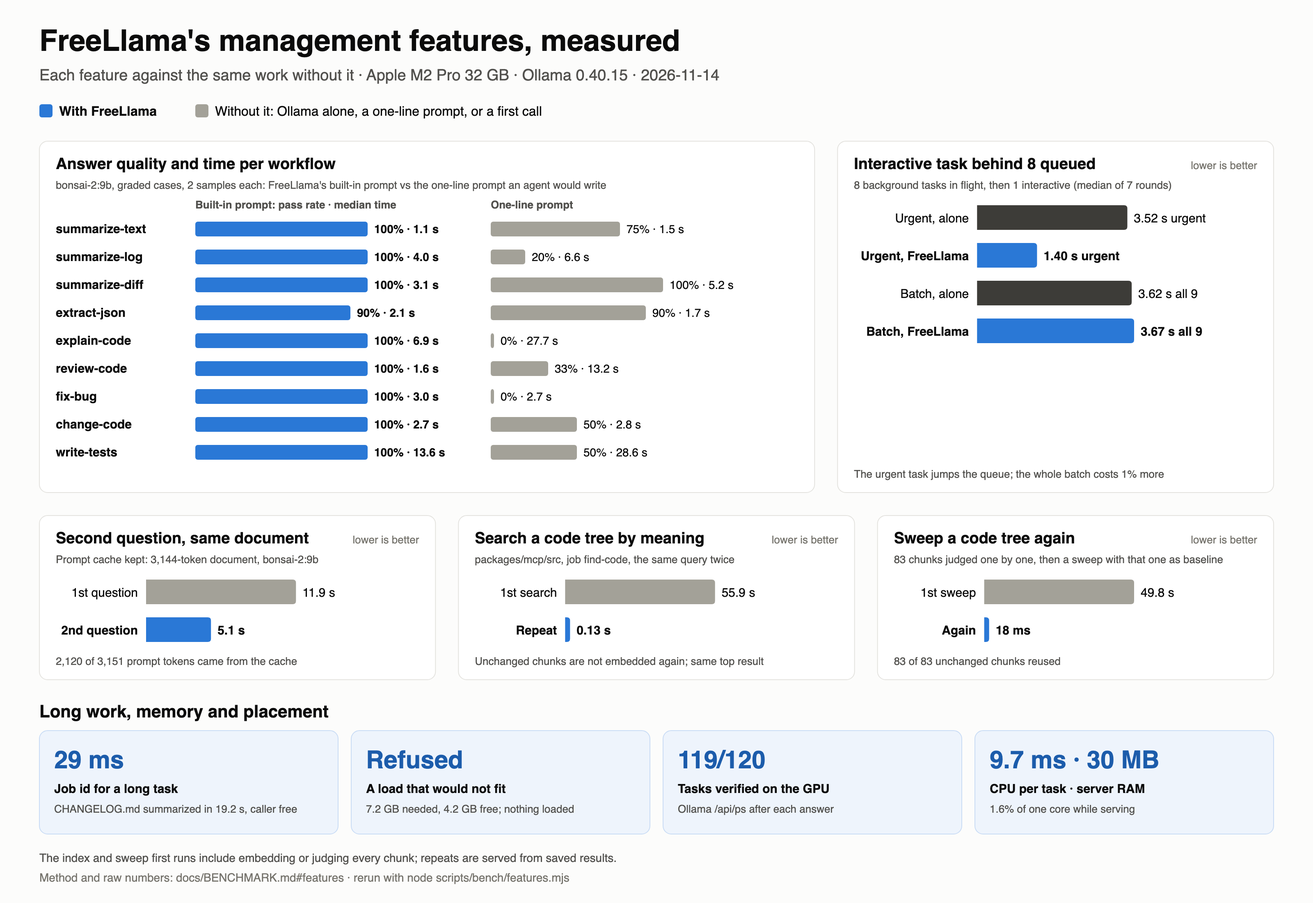
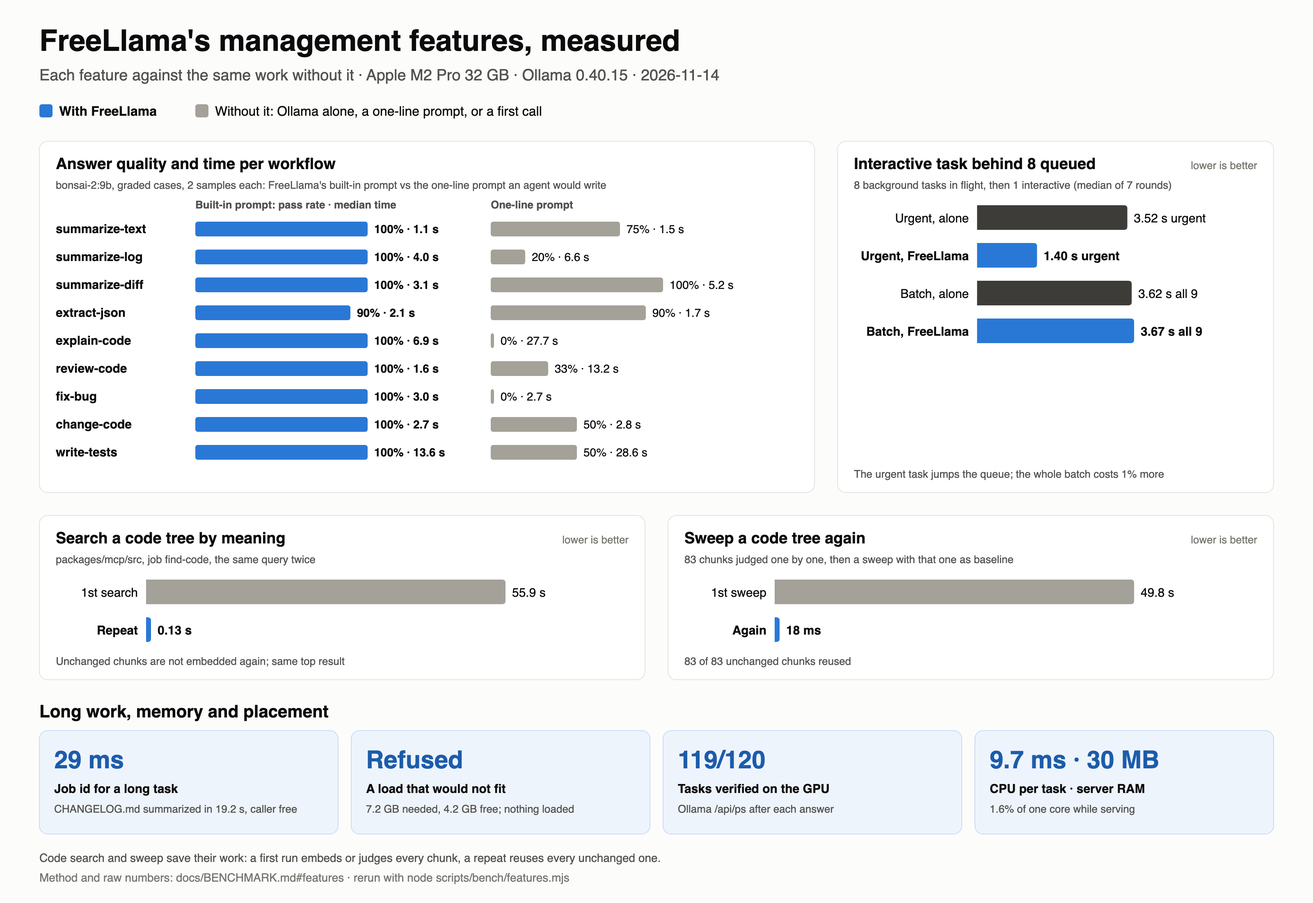
update models

Changed region(s): [[0.0312, 0.5873, 0.8125, 0.7418], [0.0312, 0.9273, 0.5, 0.9582]]

diff --git a/packages/mcp/src/result-text.ts b/packages/mcp/src/result-text.ts
@@ -121,6 +121,15 @@ export function installedModelsText(data: Fields): string {
   return lines.join("\n");
 }
 
+/** Where a runner sits. `processor` is Ollama's own label ("100% GPU", "48%/52% CPU/GPU"), which
+ * already carries the split; the percentage is added only when the label lacks one. */
+function placementLabel(placement: Fields): string {
+  const processor = str(placement.processor) ? String(placement.processor) : undefined;
+  if (processor && /%/.test(processor)) return processor;
+  const percent = num(placement.gpu_percent);
+  return [processor, percent !== undefined ? `${percent}% GPU` : undefined].filter(Boolean).join(" ") || "?";
+}
+
 /** `models view:resident`: what is loaded, where, and how much. */
 export function residentModelsText(data: Fields): string {
   const models = list(data.models).map((m) => obj(m) ?? {});
@@ -131,7 +140,7 @@ export function residentModelsText(data: Fields): string {
     lines.push(
       [
         String(m.name ?? "?"), `size ${gib(m.resident_size ?? m.size)}`,
-        placement ? `${String(placement.processor ?? "?")} ${String(placement.gpu_percent ?? "?")}% GPU` : "",
+        placement ? placementLabel(placement) : "",
         num(m.resident_context) !== undefined ? `ctx ${String(m.resident_context)}` : "",
         str(placement?.warning) ? `warning: ${String(placement?.warning)}` : "",
       ].filter(Boolean).join("  "),

diff --git a/packages/mcp/test/unit/result-text.test.ts b/packages/mcp/test/unit/result-text.test.ts
@@ -1,0 +1,16 @@
+import { describe, expect, it } from "vitest";
+import { residentModelsText } from "../../src/result-text.js";
+
+describe("residentModelsText", () => {
+  it("shows Ollama's placement label once", () => {
+    const text = residentModelsText({ models: [
+      { name: "a:2b", size: 2 ** 30, resident_context: 4096, placement: { processor: "100% GPU", gpu_percent: 100 } },
+      { name: "b:9b", size: 2 ** 30, placement: { processor: "48%/52% CPU/GPU", gpu_percent: 52 } },
+      { name: "c:1b", size: 2 ** 30, placement: { gpu_percent: 0 } },
+    ] });
+    expect(text).toContain("a:2b  size 1.0 GiB  100% GPU  ctx 4096");
+    expect(text).not.toContain("100% GPU 100% GPU");
+    expect(text).toContain("48%/52% CPU/GPU");
+    expect(text).toContain("c:1b  size 1.0 GiB  0% GPU");
+  });
+});

diff --git a/packages/cli/README.md b/packages/cli/README.md
@@ -63,21 +63,21 @@ caller cannot see. FreeLlama addresses each one; the answer is still yours to ch
 | What goes wrong with a direct call | What FreeLlama does | What we measured |
 |---|---|---|
 | **The wrong model for this machine.** A tag name says nothing about capability, context or memory. One load too many and the machine starts swapping. | Picks the tested model for the job that is installed *and fits now*. A load that does not fit waits, then is refused with the reason and the programs holding the memory. | With 6.5 GB free, a code review moved from a 10 GB model to one that fit. A yes/no question ran on a 1.2 GB decision model instead of a 14.5 GB one that would have been refused. |
-| **Default settings waste tokens.** Thinking models reason before every answer. Small models pad their output. | Applies each model card's documented sampling and think setting, plus step-by-step workflow prompts that were tested on the models. | A direct call spent 61 tokens (0.92 s) thinking before answering "OK"; FreeLlama answered in 2 tokens (0.47 s). On the workflow eval, the 1.7B model went from 7 of 12 to 11 of 12. |
+| **Default settings waste tokens.** Thinking models reason before every answer. Small models pad their output. | Applies each model card's documented sampling and think setting, plus step-by-step workflow prompts that were tested on the models. | A direct call spent 61 tokens (0.92 s) thinking before answering "OK"; FreeLlama answered in 2 tokens (0.47 s). Built-in workflow prompts passed 98% of graded cases where one-line prompts passed 52%. |
 | **No way to tell a good answer from a bad one.** Answers loop, pad, invent facts, or come back empty. | Returns `check:` lines (filler, invented facts, edits that do not match the file) and a receipt with the model, timing, cache hits and GPU/CPU placement. | An empty "thinking-only" answer exits 1 with the fix (`--think=false`) instead of looking like success. |
 
 Over a session it also keeps the machine efficient:
 
 | Mechanism | Effect | Measured |
 |---|---|---|
-| **Prompt cache kept** | Reuses a loaded model's context window and settings, so Ollama's prompt cache survives between turns | 95% of a multi-turn prompt served from cache (attention models; Ollama does not cache hybrid models such as `lfm3` across turns) |
+| **Prompt cache kept** | Reuses a loaded model's context window and settings, so Ollama's prompt cache survives between turns | A second question about a 3,144-token document took 5.1 s instead of 11.9 s (attention models; Ollama does not cache hybrid models such as `lfm3` across turns) |
 | **Admitted loads only** | Every model load through FreeLlama, streamed requests included, goes through the memory gate (direct calls to Ollama bypass it) | — |
-| **Indexed code search** | A repeated search embeds only the chunks that changed | 89 chunks: 7.3 s first, 0.28 s next |
-| **Fast hand-off** | The service answers the moment a job is done | A short task on a loaded model in about 0.2 s |
+| **Indexed code search** | A repeated search embeds only the chunks that changed | `packages/mcp/src`: 55.9 s first, 0.13 s next |
+| **Long tasks as jobs** | A long task returns a job id at once; the agent polls and stays free | Job id in 29 ms; an interactive task behind 8 queued ones answered in 1.40 s instead of 3.52 s |
 
-*Measured on one Apple M2 Pro (32 GB) with Ollama 0.40.15, on 2026-11-10. These are single-machine
-results, not general speed claims. The current benchmark, with every KPI and how it was measured:
-[Benchmark](https://github.com/bgauryy/FreeLlama/blob/main/docs/BENCHMARK.md); workflow checks: [Testing](https://github.com/bgauryy/FreeLlama/blob/main/docs/TESTING.md).*
+*Measured on one Apple M2 Pro (32 GB) with Ollama 0.40.15 on 2026-11-14 (the thinking example on
+2026-11-10). These are single-machine results, not general speed claims; method and limits:
+[Benchmark](https://github.com/bgauryy/FreeLlama/blob/main/docs/BENCHMARK.md).*
 
 The name means less metered inference, not only Meta's Llama models.
 
@@ -279,30 +279,24 @@ and no scheduling across machines.
 
 ### Benchmarks
 
-Ollama alone, FreeLlama on Ollama, and the most popular alternatives by GitHub stars, on the same
-task and the same hash-verified model file (Apple M2 Pro, 32 GB, 2026-11-14). Every one of the 300
-answers was correct.
+Ollama alone, FreeLlama on Ollama, and the most popular alternatives by GitHub stars, on one task
+and one hash-verified model file (Apple M2 Pro, 32 GB, 2026-11-14). All 300 answers were correct.
 
 ![Ollama, FreeLlama, llama.cpp, LocalAI and llama-swap on six measured KPIs: median task time 272, 274, 336, 802 and 332 ms; first token 93, 95, 128, 541 and 130 ms; throughput at 4 clients 225, 221, 291, 145 and 305 per minute; cold request 1.13, 1.21, n/a, 3.39 and 1.58 s; plus what FreeLlama adds: 3.7 ms overhead, 98% vs 52% with built-in prompts, 9.7 ms CPU and 30 MB RAM, loads that would not fit refused](https://raw.githubusercontent.com/bgauryy/FreeLlama/main/docs/assets/benchmark-overview.png)
 
 | | Ollama | **FreeLlama** | llama.cpp | LocalAI | llama-swap |
 |---|---:|---:|---:|---:|---:|
-| GitHub stars | 187k | — (runs on Ollama) | 135k | 50k | 6k |
 | Median task time | 272 ms | **274 ms** | 336 ms | 802 ms | 332 ms |
-| p95 task time | 290 ms | **303 ms** | 375 ms | 911 ms | 372 ms |
-| First token | 93 ms | **95 ms** (streamed) | 128 ms | 541 ms | 130 ms |
-| Tasks/min, 1 client | 209 | **206** | 178 | 76 | 178 |
+| First token | 93 ms | **95 ms** | 128 ms | 541 ms | 130 ms |
 | Tasks/min, 4 clients | 225 | **221** | 291 | 145 | 305 |
-| Cold request | 1.13 s | **1.21 s** | loads at start | 3.39 s | 1.58 s |
-| Refuses a load that won't fit in free memory | No (refuses only above total RAM) | **Yes**: refused 7.2 GB with 4.2 GB free | No (frees room, then loads anyway) | VRAM budget cap | No (declared pools) |
-| Picks an installed model that fits now, per job | No | **Yes** | No | Hardware recommendations | No |
-| Built-in tested prompts per job | — | **98%** of graded cases vs 52% with one-line prompts | — | — | — |
-| MCP server for coding agents | — | **Yes** | — | — | — |
 
-FreeLlama keeps Ollama's speed (its own work is 3.7 ms and 9.7 ms of CPU per task, 30 MB of RAM)
-and adds model choice, tested prompts, a memory gate and receipts. llama.cpp and llama-swap serve
-concurrent clients faster; LocalAI trades speed for breadth. What to use for what you are building,
-and how every number was measured: [Benchmark](https://github.com/bgauryy/FreeLlama/blob/main/docs/BENCHMARK.md).
+FreeLlama keeps Ollama's speed and adds what an agent needs on a shared machine:
+
+![FreeLlama's features measured: built-in prompts pass 98% of graded cases against 52% for one-line prompts; an interactive task behind 8 queued answers in 1.40 s instead of 3.52 s; a repeated code search takes 0.13 s instead of 55.9 s; a repeated sweep 18 ms instead of 49.8 s; a long task returns a job id in 29 ms](https://raw.githubusercontent.com/bgauryy/FreeLlama/main/docs/assets/benchmark-features.png)
+
+llama.cpp and llama-swap serve concurrent clients faster with Ollama's default settings, and
+LocalAI trades speed for breadth. What to use for what you are building, and how every number was
+measured: [Benchmark](https://github.com/bgauryy/FreeLlama/blob/main/docs/BENCHMARK.md).
 
 ## Under the hood
 

diff --git a/packages/mcp/README.md b/packages/mcp/README.md
@@ -63,21 +63,21 @@ caller cannot see. FreeLlama addresses each one; the answer is still yours to ch
 | What goes wrong with a direct call | What FreeLlama does | What we measured |
 |---|---|---|
 | **The wrong model for this machine.** A tag name says nothing about capability, context or memory. One load too many and the machine starts swapping. | Picks the tested model for the job that is installed *and fits now*. A load that does not fit waits, then is refused with the reason and the programs holding the memory. | With 6.5 GB free, a code review moved from a 10 GB model to one that fit. A yes/no question ran on a 1.2 GB decision model instead of a 14.5 GB one that would have been refused. |
-| **Default settings waste tokens.** Thinking models reason before every answer. Small models pad their output. | Applies each model card's documented sampling and think setting, plus step-by-step workflow prompts that were tested on the models. | A direct call spent 61 tokens (0.92 s) thinking before answering "OK"; FreeLlama answered in 2 tokens (0.47 s). On the workflow eval, the 1.7B model went from 7 of 12 to 11 of 12. |
+| **Default settings waste tokens.** Thinking models reason before every answer. Small models pad their output. | Applies each model card's documented sampling and think setting, plus step-by-step workflow prompts that were tested on the models. | A direct call spent 61 tokens (0.92 s) thinking before answering "OK"; FreeLlama answered in 2 tokens (0.47 s). Built-in workflow prompts passed 98% of graded cases where one-line prompts passed 52%. |
 | **No way to tell a good answer from a bad one.** Answers loop, pad, invent facts, or come back empty. | Returns `check:` lines (filler, invented facts, edits that do not match the file) and a receipt with the model, timing, cache hits and GPU/CPU placement. | An empty "thinking-only" answer exits 1 with the fix (`--think=false`) instead of looking like success. |
 
 Over a session it also keeps the machine efficient:
 
 | Mechanism | Effect | Measured |
 |---|---|---|
-| **Prompt cache kept** | Reuses a loaded model's context window and settings, so Ollama's prompt cache survives between turns | 95% of a multi-turn prompt served from cache (attention models; Ollama does not cache hybrid models such as `lfm3` across turns) |
+| **Prompt cache kept** | Reuses a loaded model's context window and settings, so Ollama's prompt cache survives between turns | A second question about a 3,144-token document took 5.1 s instead of 11.9 s (attention models; Ollama does not cache hybrid models such as `lfm3` across turns) |
 | **Admitted loads only** | Every model load through FreeLlama, streamed requests included, goes through the memory gate (direct calls to Ollama bypass it) | — |
-| **Indexed code search** | A repeated search embeds only the chunks that changed | 89 chunks: 7.3 s first, 0.28 s next |
-| **Fast hand-off** | The service answers the moment a job is done | A short task on a loaded model in about 0.2 s |
+| **Indexed code search** | A repeated search embeds only the chunks that changed | `packages/mcp/src`: 55.9 s first, 0.13 s next |
+| **Long tasks as jobs** | A long task returns a job id at once; the agent polls and stays free | Job id in 29 ms; an interactive task behind 8 queued ones answered in 1.40 s instead of 3.52 s |
 
-*Measured on one Apple M2 Pro (32 GB) with Ollama 0.40.15, on 2026-11-10. These are single-machine
-results, not general speed claims. The current benchmark, with every KPI and how it was measured:
-[Benchmark](https://github.com/bgauryy/FreeLlama/blob/main/docs/BENCHMARK.md); workflow checks: [Testing](https://github.com/bgauryy/FreeLlama/blob/main/docs/TESTING.md).*
+*Measured on one Apple M2 Pro (32 GB) with Ollama 0.40.15 on 2026-11-14 (the thinking example on
+2026-11-10). These are single-machine results, not general speed claims; method and limits:
+[Benchmark](https://github.com/bgauryy/FreeLlama/blob/main/docs/BENCHMARK.md).*
 
 The name means less metered inference, not only Meta's Llama models.
 
@@ -279,30 +279,24 @@ and no scheduling across machines.
 
 ### Benchmarks
 
-Ollama alone, FreeLlama on Ollama, and the most popular alternatives by GitHub stars, on the same
-task and the same hash-verified model file (Apple M2 Pro, 32 GB, 2026-11-14). Every one of the 300
-answers was correct.
+Ollama alone, FreeLlama on Ollama, and the most popular alternatives by GitHub stars, on one task
+and one hash-verified model file (Apple M2 Pro, 32 GB, 2026-11-14). All 300 answers were correct.
 
 ![Ollama, FreeLlama, llama.cpp, LocalAI and llama-swap on six measured KPIs: median task time 272, 274, 336, 802 and 332 ms; first token 93, 95, 128, 541 and 130 ms; throughput at 4 clients 225, 221, 291, 145 and 305 per minute; cold request 1.13, 1.21, n/a, 3.39 and 1.58 s; plus what FreeLlama adds: 3.7 ms overhead, 98% vs 52% with built-in prompts, 9.7 ms CPU and 30 MB RAM, loads that would not fit refused](https://raw.githubusercontent.com/bgauryy/FreeLlama/main/docs/assets/benchmark-overview.png)
 
 | | Ollama | **FreeLlama** | llama.cpp | LocalAI | llama-swap |
 |---|---:|---:|---:|---:|---:|
-| GitHub stars | 187k | — (runs on Ollama) | 135k | 50k | 6k |
 | Median task time | 272 ms | **274 ms** | 336 ms | 802 ms | 332 ms |
-| p95 task time | 290 ms | **303 ms** | 375 ms | 911 ms | 372 ms |
-| First token | 93 ms | **95 ms** (streamed) | 128 ms | 541 ms | 130 ms |
-| Tasks/min, 1 client | 209 | **206** | 178 | 76 | 178 |
+| First token | 93 ms | **95 ms** | 128 ms | 541 ms | 130 ms |
 | Tasks/min, 4 clients | 225 | **221** | 291 | 145 | 305 |
-| Cold request | 1.13 s | **1.21 s** | loads at start | 3.39 s | 1.58 s |
-| Refuses a load that won't fit in free memory | No (refuses only above total RAM) | **Yes**: refused 7.2 GB with 4.2 GB free | No (frees room, then loads anyway) | VRAM budget cap | No (declared pools) |
-| Picks an installed model that fits now, per job | No | **Yes** | No | Hardware recommendations | No |
-| Built-in tested prompts per job | — | **98%** of graded cases vs 52% with one-line prompts | — | — | — |
-| MCP server for coding agents | — | **Yes** | — | — | — |
 
-FreeLlama keeps Ollama's speed (its own work is 3.7 ms and 9.7 ms of CPU per task, 30 MB of RAM)
-and adds model choice, tested prompts, a memory gate and receipts. llama.cpp and llama-swap serve
-concurrent clients faster; LocalAI trades speed for breadth. What to use for what you are building,
-and how every number was measured: [Benchmark](https://github.com/bgauryy/FreeLlama/blob/main/docs/BENCHMARK.md).
+FreeLlama keeps Ollama's speed and adds what an agent needs on a shared machine:
+
+![FreeLlama's features measured: built-in prompts pass 98% of graded cases against 52% for one-line prompts; an interactive task behind 8 queued answers in 1.40 s instead of 3.52 s; a repeated code search takes 0.13 s instead of 55.9 s; a repeated sweep 18 ms instead of 49.8 s; a long task returns a job id in 29 ms](https://raw.githubusercontent.com/bgauryy/FreeLlama/main/docs/assets/benchmark-features.png)
+
+llama.cpp and llama-swap serve concurrent clients faster with Ollama's default settings, and
+LocalAI trades speed for breadth. What to use for what you are building, and how every number was
+measured: [Benchmark](https://github.com/bgauryy/FreeLlama/blob/main/docs/BENCHMARK.md).
 
 ## Under the hood
 

diff --git a/README.md b/README.md
@@ -63,21 +63,21 @@ caller cannot see. FreeLlama addresses each one; the answer is still yours to ch
 | What goes wrong with a direct call | What FreeLlama does | What we measured |
 |---|---|---|
 | **The wrong model for this machine.** A tag name says nothing about capability, context or memory. One load too many and the machine starts swapping. | Picks the tested model for the job that is installed *and fits now*. A load that does not fit waits, then is refused with the reason and the programs holding the memory. | With 6.5 GB free, a code review moved from a 10 GB model to one that fit. A yes/no question ran on a 1.2 GB decision model instead of a 14.5 GB one that would have been refused. |
-| **Default settings waste tokens.** Thinking models reason before every answer. Small models pad their output. | Applies each model card's documented sampling and think setting, plus step-by-step workflow prompts that were tested on the models. | A direct call spent 61 tokens (0.92 s) thinking before answering "OK"; FreeLlama answered in 2 tokens (0.47 s). On the workflow eval, the 1.7B model went from 7 of 12 to 11 of 12. |
+| **Default settings waste tokens.** Thinking models reason before every answer. Small models pad their output. | Applies each model card's documented sampling and think setting, plus step-by-step workflow prompts that were tested on the models. | A direct call spent 61 tokens (0.92 s) thinking before answering "OK"; FreeLlama answered in 2 tokens (0.47 s). Built-in workflow prompts passed 98% of graded cases where one-line prompts passed 52%. |
 | **No way to tell a good answer from a bad one.** Answers loop, pad, invent facts, or come back empty. | Returns `check:` lines (filler, invented facts, edits that do not match the file) and a receipt with the model, timing, cache hits and GPU/CPU placement. | An empty "thinking-only" answer exits 1 with the fix (`--think=false`) instead of looking like success. |
 
 Over a session it also keeps the machine efficient:
 
 | Mechanism | Effect | Measured |
 |---|---|---|
-| **Prompt cache kept** | Reuses a loaded model's context window and settings, so Ollama's prompt cache survives between turns | 95% of a multi-turn prompt served from cache (attention models; Ollama does not cache hybrid models such as `lfm3` across turns) |
+| **Prompt cache kept** | Reuses a loaded model's context window and settings, so Ollama's prompt cache survives between turns | A second question about a 3,144-token document took 5.1 s instead of 11.9 s (attention models; Ollama does not cache hybrid models such as `lfm3` across turns) |
 | **Admitted loads only** | Every model load through FreeLlama, streamed requests included, goes through the memory gate (direct calls to Ollama bypass it) | — |
-| **Indexed code search** | A repeated search embeds only the chunks that changed | 89 chunks: 7.3 s first, 0.28 s next |
-| **Fast hand-off** | The service answers the moment a job is done | A short task on a loaded model in about 0.2 s |
+| **Indexed code search** | A repeated search embeds only the chunks that changed | `packages/mcp/src`: 55.9 s first, 0.13 s next |
+| **Long tasks as jobs** | A long task returns a job id at once; the agent polls and stays free | Job id in 29 ms; an interactive task behind 8 queued ones answered in 1.40 s instead of 3.52 s |
 
-*Measured on one Apple M2 Pro (32 GB) with Ollama 0.40.15, on 2026-11-10. These are single-machine
-results, not general speed claims. The current benchmark, with every KPI and how it was measured:
-[Benchmark](docs/BENCHMARK.md); workflow checks: [Testing](docs/TESTING.md).*
+*Measured on one Apple M2 Pro (32 GB) with Ollama 0.40.15 on 2026-11-14 (the thinking example on
+2026-11-10). These are single-machine results, not general speed claims; method and limits:
+[Benchmark](docs/BENCHMARK.md).*
 
 The name means less metered inference, not only Meta's Llama models.
 
@@ -279,30 +279,24 @@ and no scheduling across machines.
 
 ### Benchmarks
 
-Ollama alone, FreeLlama on Ollama, and the most popular alternatives by GitHub stars, on the same
-task and the same hash-verified model file (Apple M2 Pro, 32 GB, 2026-11-14). Every one of the 300
-answers was correct.
+Ollama alone, FreeLlama on Ollama, and the most popular alternatives by GitHub stars, on one task
+and one hash-verified model file (Apple M2 Pro, 32 GB, 2026-11-14). All 300 answers were correct.
 
 ![Ollama, FreeLlama, llama.cpp, LocalAI and llama-swap on six measured KPIs: median task time 272, 274, 336, 802 and 332 ms; first token 93, 95, 128, 541 and 130 ms; throughput at 4 clients 225, 221, 291, 145 and 305 per minute; cold request 1.13, 1.21, n/a, 3.39 and 1.58 s; plus what FreeLlama adds: 3.7 ms overhead, 98% vs 52% with built-in prompts, 9.7 ms CPU and 30 MB RAM, loads that would not fit refused](docs/assets/benchmark-overview.png)
 
 | | Ollama | **FreeLlama** | llama.cpp | LocalAI | llama-swap |
 |---|---:|---:|---:|---:|---:|
-| GitHub stars | 187k | — (runs on Ollama) | 135k | 50k | 6k |
 | Median task time | 272 ms | **274 ms** | 336 ms | 802 ms | 332 ms |
-| p95 task time | 290 ms | **303 ms** | 375 ms | 911 ms | 372 ms |
-| First token | 93 ms | **95 ms** (streamed) | 128 ms | 541 ms | 130 ms |
-| Tasks/min, 1 client | 209 | **206** | 178 | 76 | 178 |
+| First token | 93 ms | **95 ms** | 128 ms | 541 ms | 130 ms |
 | Tasks/min, 4 clients | 225 | **221** | 291 | 145 | 305 |
-| Cold request | 1.13 s | **1.21 s** | loads at start | 3.39 s | 1.58 s |
-| Refuses a load that won't fit in free memory | No (refuses only above total RAM) | **Yes**: refused 7.2 GB with 4.2 GB free | No (frees room, then loads anyway) | VRAM budget cap | No (declared pools) |
-| Picks an installed model that fits now, per job | No | **Yes** | No | Hardware recommendations | No |
-| Built-in tested prompts per job | — | **98%** of graded cases vs 52% with one-line prompts | — | — | — |
-| MCP server for coding agents | — | **Yes** | — | — | — |
 
-FreeLlama keeps Ollama's speed (its own work is 3.7 ms and 9.7 ms of CPU per task, 30 MB of RAM)
-and adds model choice, tested prompts, a memory gate and receipts. llama.cpp and llama-swap serve
-concurrent clients faster; LocalAI trades speed for breadth. What to use for what you are building,
-and how every number was measured: [Benchmark](docs/BENCHMARK.md).
+FreeLlama keeps Ollama's speed and adds what an agent needs on a shared machine:
+
+![FreeLlama's features measured: built-in prompts pass 98% of graded cases against 52% for one-line prompts; an interactive task behind 8 queued answers in 1.40 s instead of 3.52 s; a repeated code search takes 0.13 s instead of 55.9 s; a repeated sweep 18 ms instead of 49.8 s; a long task returns a job id in 29 ms](docs/assets/benchmark-features.png)
+
+llama.cpp and llama-swap serve concurrent clients faster with Ollama's default settings, and
+LocalAI trades speed for breadth. What to use for what you are building, and how every number was
+measured: [Benchmark](docs/BENCHMARK.md).
 
 ## Under the hood
 

diff --git a/docs/BENCHMARK.md b/docs/BENCHMARK.md
@@ -112,7 +112,6 @@ numbers: [`benchmark-features-raw-2026-11-14.json`](assets/benchmark-features-ra
 |---|---|---:|---:|---|
 | Priority under load | One interactive task sent after 8 background tasks | 3.52 s (Ollama alone, arrival order) | **1.40 s** | Median of 7 rounds; `priority: "interactive"` vs `"background"`. The whole batch of 9 took 3.62 s and 3.67 s (+1%) |
 | Built-in workflow prompts | The one-line prompt an agent would write | 52% of graded cases | **98%** | 24 cases × 2 samples on `bonsai-2:9b`; [per workflow](#built-in-prompts-measured) |
-| Prompt cache kept | The first question about a 3,144-token document | 11.9 s | **5.1 s** (second question) | 2,120 of 3,151 prompt tokens came from Ollama's cache; prompt evaluation 10.1 s → 3.4 s |
 | Code search index | The first search of `packages/mcp/src` by meaning | 55.9 s | **0.13 s** (repeat) | Job `find-code` with `nearest`; the repeat embeds no unchanged chunk and returns the same top file |
 | Sweep with a baseline | A first sweep: 83 chunks judged one by one by `strands-decider:2b` | 49.8 s | **18 ms** | `sweep {baseline}` reused all 83 unchanged chunks |
 | Long task as a job | Waiting on one call | — | **29 ms** to a job id | `run_task {defer:true}` for `summarize-log` over `CHANGELOG.md`; done in 19.2 s while the caller polled `task_jobs` |
@@ -121,9 +120,13 @@ numbers: [`benchmark-features-raw-2026-11-14.json`](assets/benchmark-features-ra
 | Layer cost | — | — | **9.7 ms CPU, 26–31 MB** per task and server | `ps` CPU time over 100 tasks; peak server RSS |
 
 The first index and sweep runs include embedding or judging every chunk; their repeats read saved
-results, so the size of the gain depends on how much changed. The prompt cache gain depends on a
-model whose cache Ollama reuses across turns (attention models such as `bonsai-2:9b`; Ollama does
-not reuse it for hybrid models such as `lfm3`).
+results, so the size of the gain depends on how much changed.
+
+Not a FreeLlama-only gain, so not in the table: a second question about the same 3,144-token
+document took 5.1 s instead of 11.9 s (2,120 of 3,151 prompt tokens from cache). That is Ollama's
+prompt cache; FreeLlama keeps the context size and settings stable between calls so the cache
+stays usable, and Ollama alone gives the same when a client does the same. Ollama reuses it across
+turns only for attention models such as `bonsai-2:9b`, not hybrid ones such as `lfm3`.
 
 ### Built-in prompts, measured
 
@@ -210,12 +213,6 @@ choose which tools to look at. They do not measure quality or speed.
 | [SGLang](https://github.com/sgl-project/sglang) | 38.8k | Not run: GPU-server engine |
 | [llamafile](https://github.com/mozilla-ai/llamafile) | 26.6k | Not run: same engine family as llama.cpp |
 | [oMLX](https://github.com/jundot/omlx) | 23.6k | Not run: needs a separate MLX artifact and a third-party tap |
-| [KoboldCpp](https://github.com/LostRuins/koboldcpp) | 12.3k | Not run: same engine family as llama.cpp |
-| [mlx-lm](https://github.com/ml-explore/mlx-lm) | 7.7k | Not run: different artifact format (MLX) |
-| [Lemonade](https://github.com/lemonade-sdk/lemonade) | 6.2k | Not run: not installed |
-| [LM Studio CLI](https://github.com/lmstudio-ai/lms) | 5.4k | Not run: CLI for a closed-source app |
-| [RamaLama](https://github.com/containers/ramalama) | 3.1k | Not run: container-based |
-| [Docker Model Runner](https://github.com/docker/model-runner) | 0.7k | Not run: Docker not installed |
 
 **Lifecycle, routing and agent layers.** These are FreeLlama's closest peers. They sit in front
 of an engine.
@@ -225,11 +222,16 @@ of an engine.
 | [LiteLLM](https://github.com/BerriAI/litellm) | 63.2k | Gateway for many providers: budgets, retries | Not run: a different layer |
 | [llama-swap](https://github.com/mostlygeek/llama-swap) | 6.2k | Starts engines on demand and swaps models | Benchmarked |
 | [GPUStack](https://github.com/gpustack/gpustack) | 6.0k | Schedules models across GPU clusters | Not run: needs several machines |
-| [ollama-mcp-bridge](https://github.com/patruff/ollama-mcp-bridge) | 1.0k | Lets Ollama models call MCP tools (the reverse direction) | Not run: last push 2025-04 |
-| [Olla](https://github.com/thushan/olla) | 0.3k | Proxy that balances load across endpoints | Not run: needs several endpoints |
-| [ollama-mcp](https://github.com/rawveg/ollama-mcp) | 0.2k | MCP server that passes calls straight to Ollama | Not run: same HTTP path as Ollama alone |
-| [herd](https://github.com/tom-swift-tech/herd) | <0.1k | GPU-aware Ollama router | Not run: too few users to select |
-| [ollama-queue-proxy](https://github.com/TadMSTR/ollama-queue-proxy) | <0.1k | Priority queue in front of Ollama | Not run: too few users to select |
+
+Smaller runtimes, not run: [KoboldCpp](https://github.com/LostRuins/koboldcpp) (12.3k) and
+[mlx-lm](https://github.com/ml-explore/mlx-lm) (7.7k) share an engine family or artifact format with
+those above; [Lemonade](https://github.com/lemonade-sdk/lemonade) (6.2k),
+[LM Studio's CLI](https://github.com/lmstudio-ai/lms) (5.4k), [RamaLama](https://github.com/containers/ramalama)
+(3.1k) and [Docker Model Runner](https://github.com/docker/model-runner) (0.7k) were not installed.
+Ollama-specific layers under 1k stars ([ollama-mcp-bridge](https://github.com/patruff/ollama-mcp-bridge),
+[Olla](https://github.com/thushan/olla), [ollama-mcp](https://github.com/rawveg/ollama-mcp),
+[herd](https://github.com/tom-swift-tech/herd), [ollama-queue-proxy](https://github.com/TadMSTR/ollama-queue-proxy))
+cover one piece each: MCP pass-through, load balancing, GPU routing or a priority queue.
 
 Tools at other layers (Open WebUI 158.6k, Fabric 44.6k, llm 12.8k, aichat 10.6k) are clients that
 sit above FreeLlama, not peers. [TensorZero](https://github.com/tensorzero/tensorzero) is now archived,
